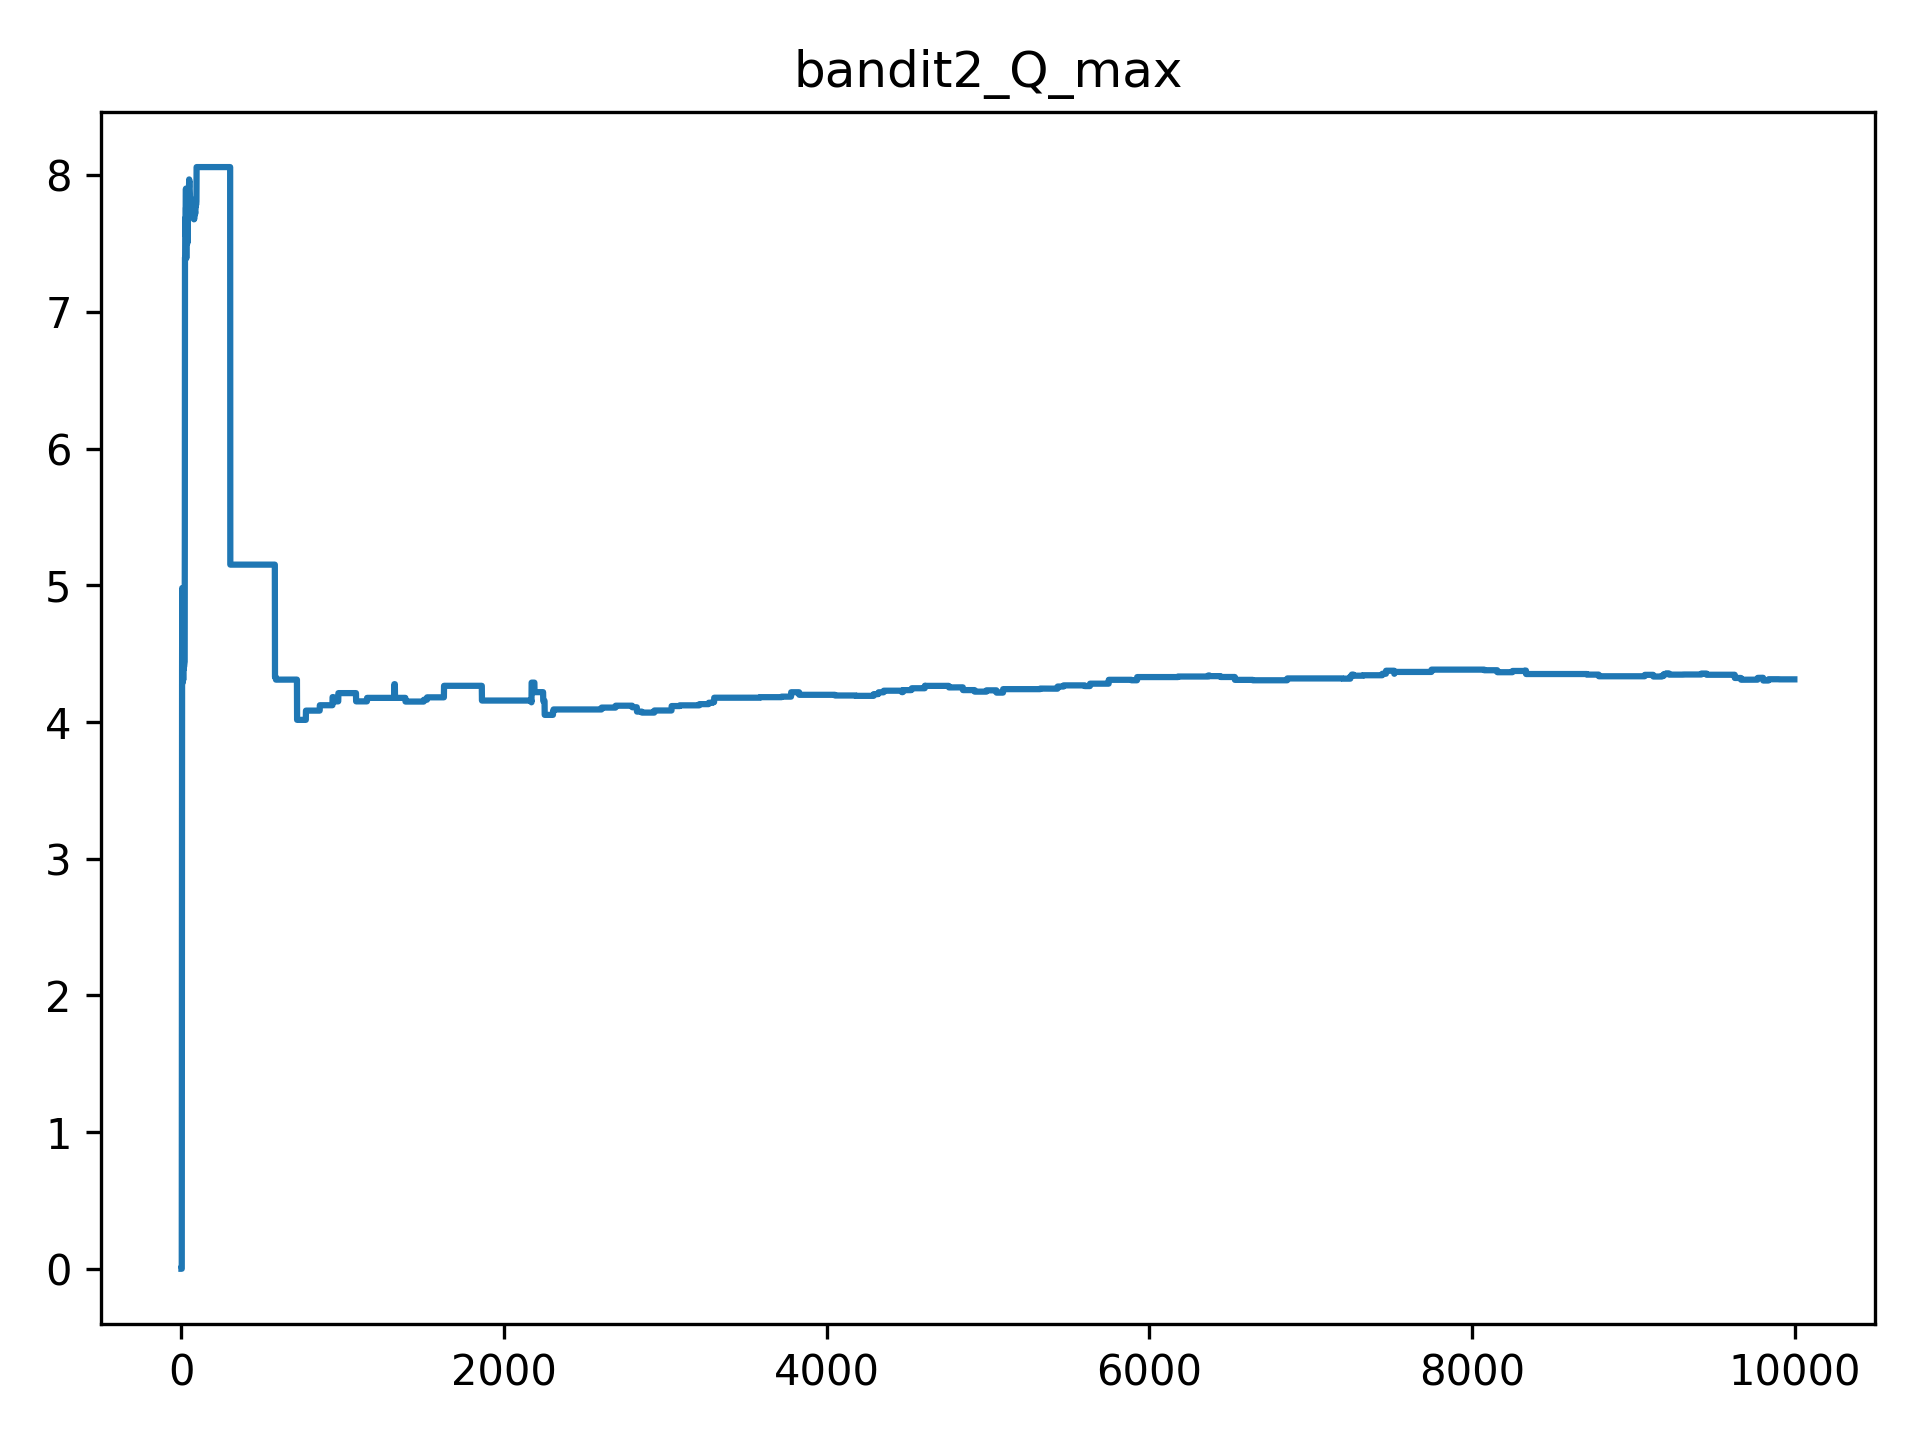
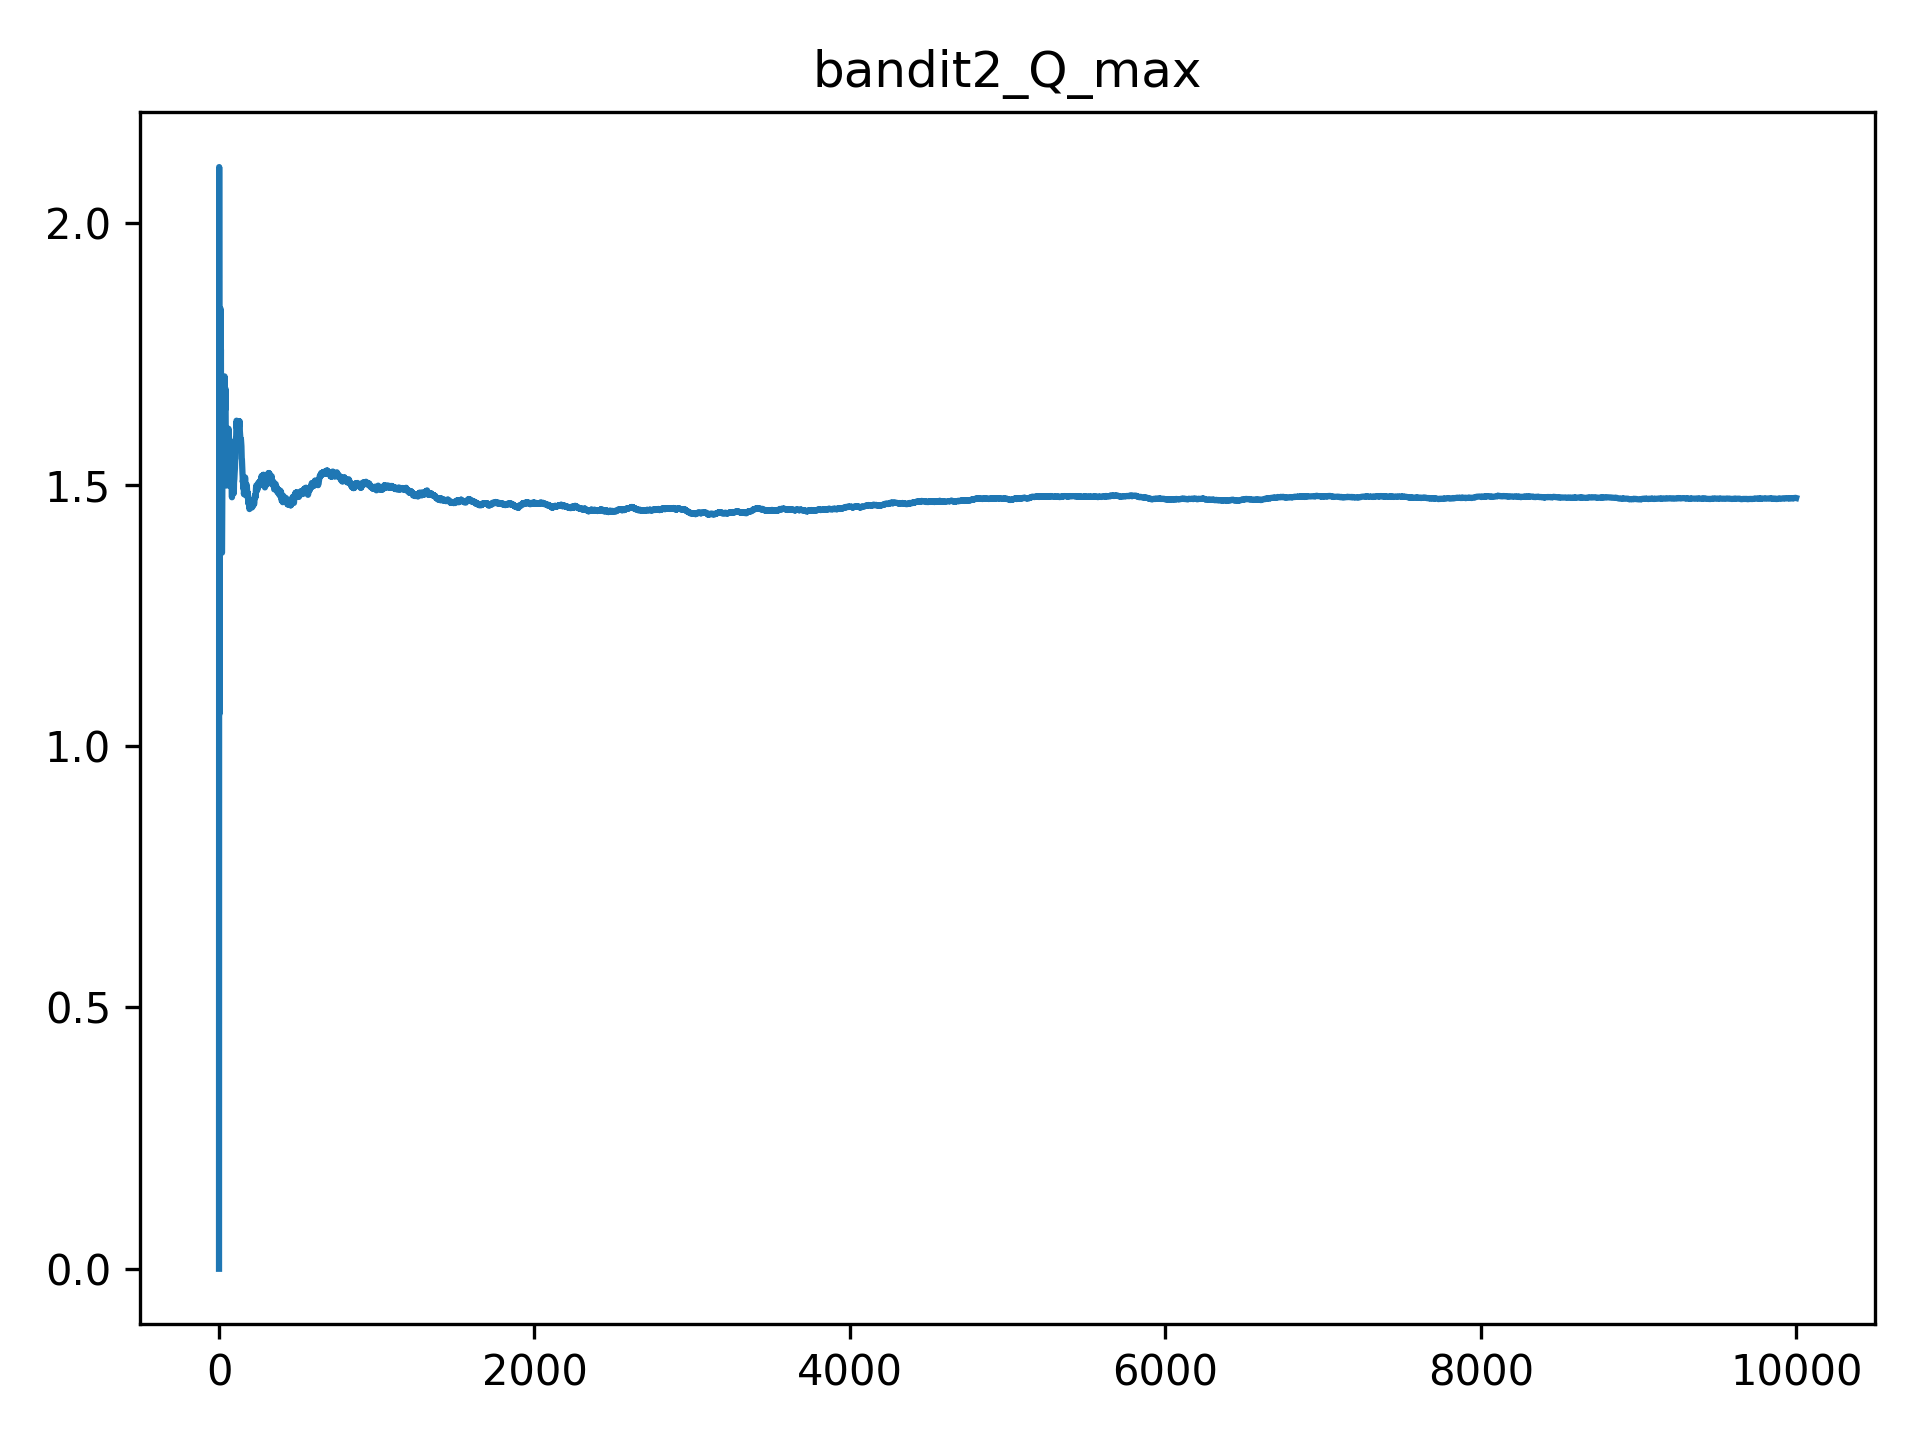
multiple bandits

diff --git a/src/CS6900/exercise_2_5.py b/src/CS6900/exercise_2_5.py
@@ -87,6 +87,12 @@ def get_reward(mu_list, sigma_list):
         reward[i] = np.random.normal(mu_list[i], sigma_list[i], 1)
     return reward
 
+def plot_bandits(list_of_bandits):
+    print("plot_bandits")
+    plt.figure()
+    for i in list_of_bandits:
+        plt.plot(i)
+
 """
 We have two RL agents standing in front of several different levers. The
 agents both pull levers each time step and use their algorithms to learn. The
@@ -102,10 +108,11 @@ n_arms = 10
 n_steps = 10000
 epsilon = .01
 
-# Init variables
+# Init bandits
 bandit1 = Bandits(n_arms, n_steps, .1, "bandit1") # Agent 1
-bandit2 = Bandits(n_arms, n_steps, .01, "bandit2") # Agent 2
+bandit2 = Bandits(n_arms, n_steps, 0, "bandit2") # Agent 2
 
+# Init levers
 lower_mu, upper_mu = -1, 10
 lever_mu = np.zeros(n_arms) + (np.random.random(n_arms)*(upper_mu-lower_mu)+lower_mu)
 lower_sigma, upper_sigma = 1, 1
@@ -126,8 +133,8 @@ for i in range(1, n_steps):
     bandit2.rewards_received[i] = reward_array[B2_A]
     bandit2.N[:, i] = bandit2.N[:, i-1]
     bandit2.Q[:, i] = bandit2.Q[:, i-1]
-    bandit2.N[B1_A][i] = bandit2.N[B1_A][i] + 1
-    bandit2.Q[B1_A][i] = bandit2.Q[B1_A][i]+1/bandit2.N[B1_A][i]*(bandit2.rewards_received[i]-bandit2.Q[B1_A][i])
+    bandit2.N[B2_A][i] = bandit2.N[B2_A][i] + 1
+    bandit2.Q[B2_A][i] = bandit2.Q[B2_A][i]+1/bandit2.N[B2_A][i]*(bandit2.rewards_received[i]-bandit2.Q[B2_A][i])
 
     Bandits.step = Bandits.step + 1
 
